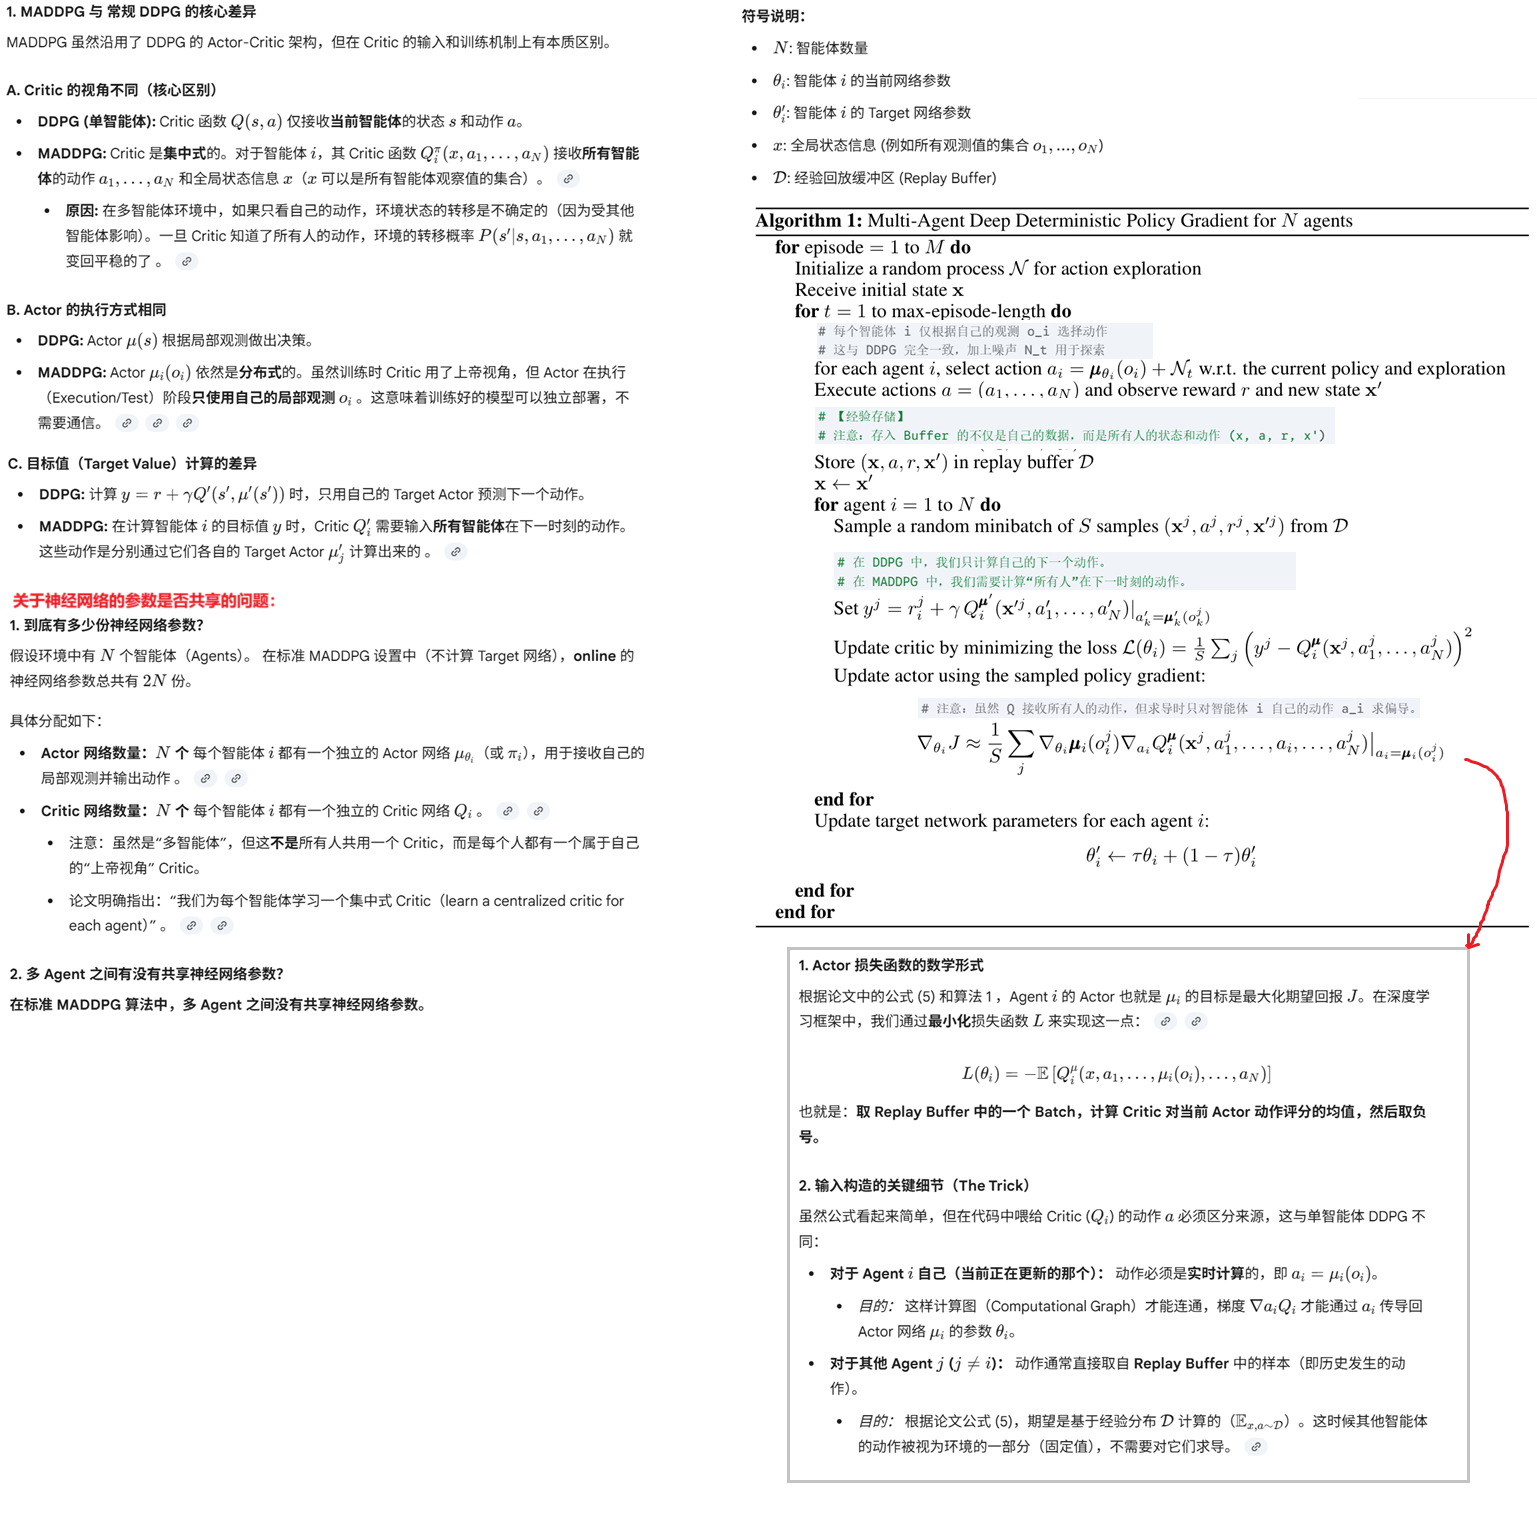
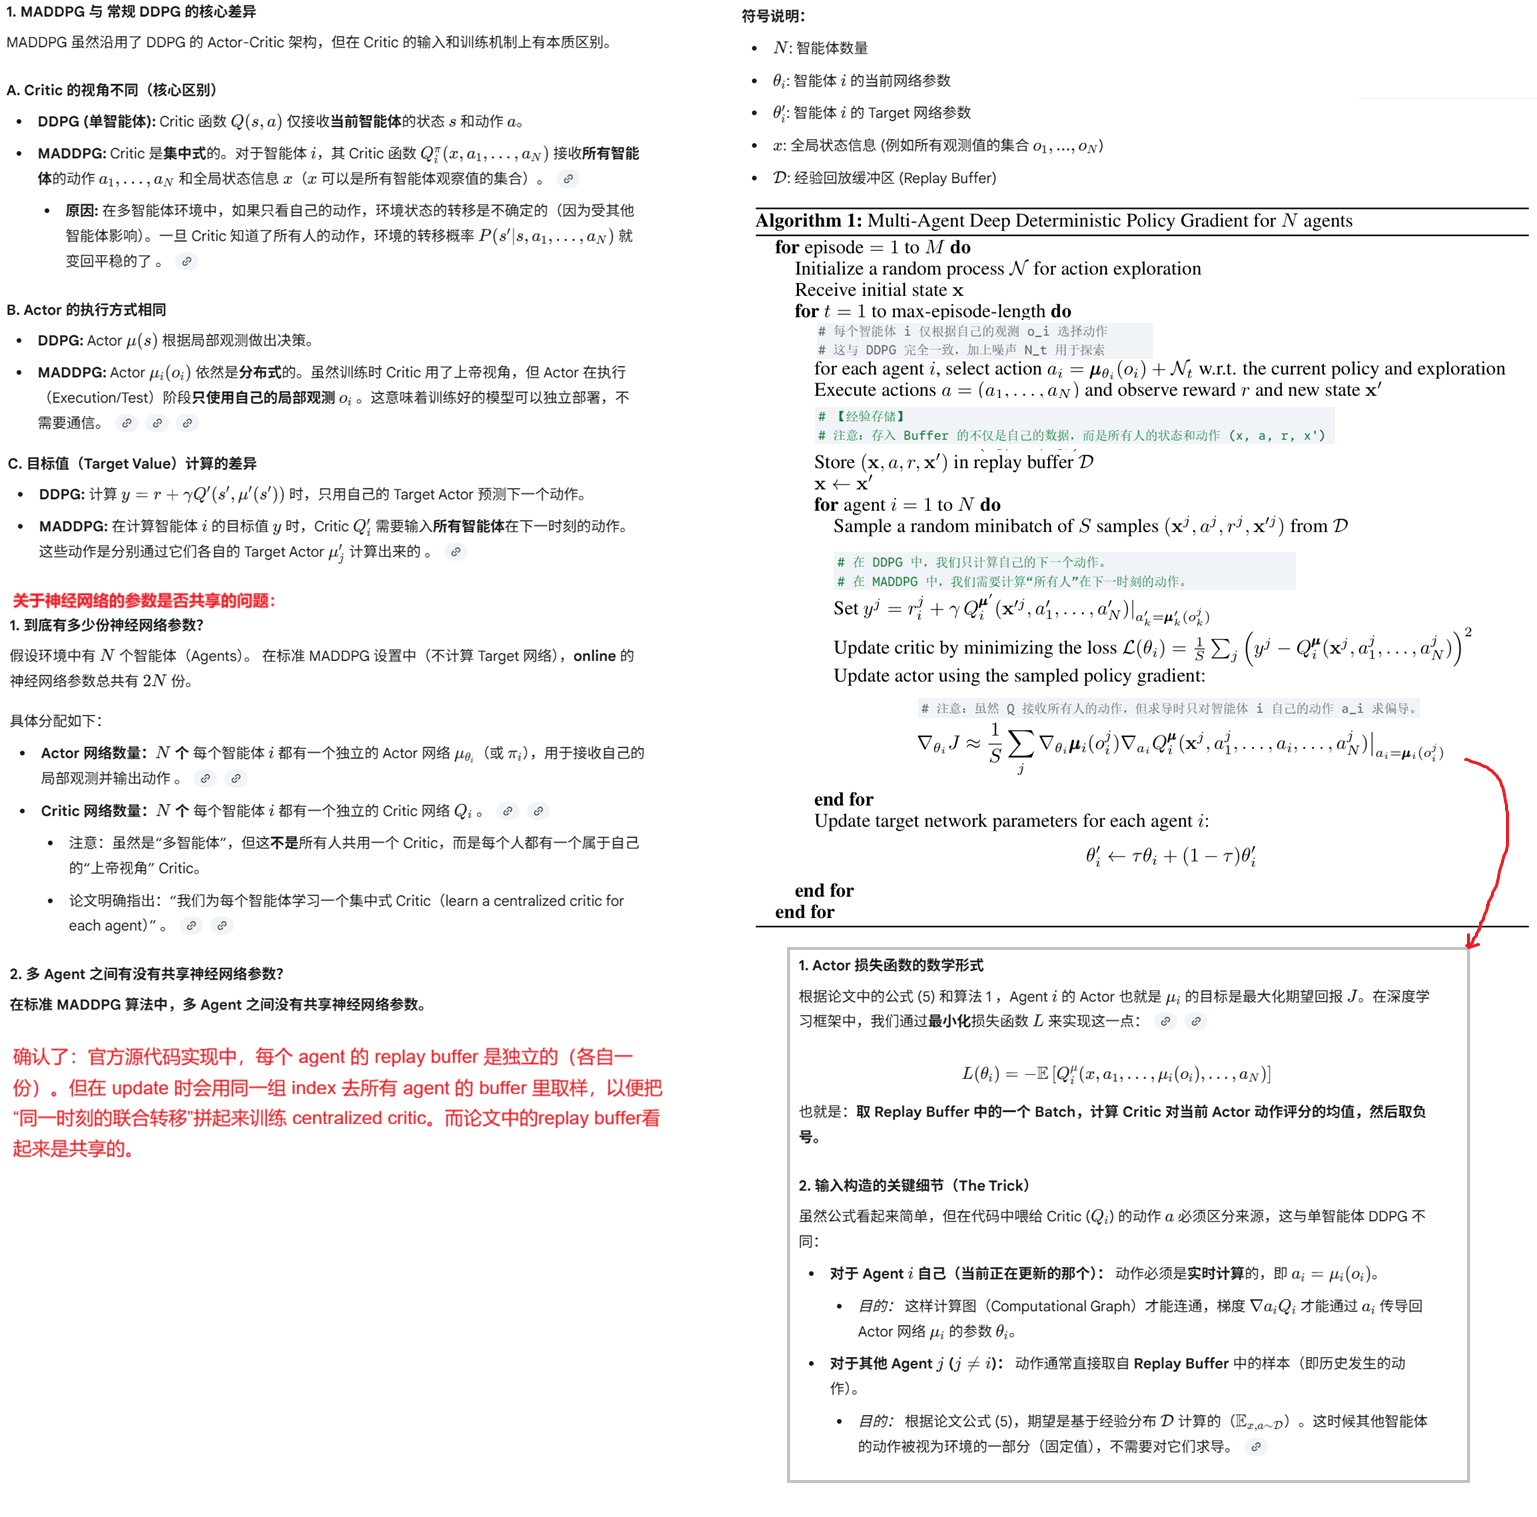
update maddpg

Changed region(s): [[0.0, 0.6816, 0.4372, 0.7746]]

diff --git a/MARL_MADDPG.md b/MARL_MADDPG.md
@@ -65,4 +65,332 @@
 
 ### 7、代码开放
 
-在[这里](https://github.com/openai/multiagent-particle-envs)有MADDPG的代码和论文中提到的几款游戏环境，但没有算法的实现。算法可能要参考DDPG论文，或者作者认为这是一个通识算法，没有必要提供。
+在[这里](https://github.com/openai/multiagent-particle-envs)有MADDPG的代码和论文中提到的几款游戏环境
+
+在[这里](https://github.com/openai/maddpg)有MADDPG的代码实现
+
+
+### 8、MPE 动作空间与 MADDPG 策略网络输出层设计
+
+#### 1. MPE 动作空间（以 simple / simple_spread 为例）
+
+##### 1.1 形式
+
+- **场景**：PettingZoo MPE 的 `simple_spread_v3`（本项目 `--scenario simple` 的默认映射）。
+- **每个 agent 的动作空间**：`Box(0.0, 1.0, (5,), float32)`，即 **5 维连续向量**，每维取值 `[0, 1]`。
+
+##### 1.2 5 维的含义
+
+5 维与 5 个“方向/选项”一一对应：
+
+| 维度索引 | 含义        |
+|----------|-------------|
+| 0        | no_action   |
+| 1        | move_left   |
+| 2        | move_right  |
+| 3        | move_down   |
+| 4        | move_up     |
+
+- **离散模式**（`continuous_actions=False`）：从这 5 个里选 1 个，即 `Discrete(5)`。
+- **连续模式**（`continuous_actions=True`，本项目所用）：每个维度表示该方向的**强度**（0～1），环境会用这 5 个数做加权或合成，得到实际移动（如 2D 速度）；左、右等可部分抵消。
+
+---
+
+#### 2. MADDPG 策略网络输出层的设计
+
+##### 2.1 设计思路：输出“分布参数”而非“动作本身”
+
+策略网络（Actor / `p_net`）**不直接输出动作**，而是输出**动作分布的参数**；再通过“分布 + 采样”得到动作，必要时再压到环境要求的区间（如 `[0, 1]`）。
+
+- **动作空间**：来自环境，如 `act_space_n[i]` 为第 i 个 agent 的 `Box(low, high, shape)` 或 `Discrete(n)`。
+- **分布类型（PdType）**：由 `make_pdtype(ac_space)` 根据动作空间类型决定：
+  - `Box(shape=(d,))` → **对角高斯**，需要 `2*d` 个参数（d 个均值 + d 个标准差的对数）；
+  - `Discrete(n)` → Softmax（n 个 logits）。
+- **输出维度**：`p_param_size = act_pdtype_n[agent_index].param_shape()[0]`。对 `Box(d)` 即为 `2*d`。
+- **前向流程**：`obs → p_net → flat (长度 2d) → pdfromflat(flat) → 分布.sample() → [可选] _squash → 环境动作`。
+
+因此，**输出层维度 = 该 agent 动作分布参数的个数**（对角高斯下 = 2×动作维度）。
+
+##### 2.2 与 Q 网络的区分
+
+- **p_net（Actor）**：输入当前 agent 的观测，输出**动作分布参数**（如 mean + logstd）。
+- **q_net（Critic）**：输入所有 agent 的 (obs, action) 拼接（或 local 时仅当前 agent），输出标量 Q 值。
+
+---
+
+#### 3. 对角高斯分布（Diagonal Gaussian）
+
+##### 3.1 定义与参数形式
+
+- **对角高斯**：多元高斯的一种，**为动作的每个维度各设一组 (均值, 标准差)**，各维**独立**。
+- **协方差矩阵**：为对角阵（非对角元为 0），即各维无协方差、不相关。
+- **参数**：d 维动作 → 共 `2*d` 个参数：`[μ_1..μ_d, log(σ_1)..log(σ_d)]`。
+- **采样**：对每维独立采样  
+  `a_i = μ_i + σ_i * ε_i`，其中 `ε_i ~ N(0,1)` 且各维独立。  
+  使用 **logstd** 而非 std，是为了让网络可以无界输出，再通过 `σ = exp(logstd)` 保证 σ > 0。
+
+##### 3.2 与“一般多元高斯”的对比
+
+| 项目         | 一般多元高斯           | 对角高斯                     |
+|--------------|------------------------|------------------------------|
+| 协方差       | 任意对称正定矩阵 Σ     | 仅对角元，各维独立           |
+| 参数个数     | d + d(d+1)/2           | d + d = 2d                    |
+| 维度间关系   | 可相关                 | 独立                         |
+| 实现与训练   | 需正定参数化，较复杂   | 简单、稳定，常用于连续动作   |
+
+---
+
+#### 4. 维度间的“冲突”与对角假设的理解
+
+##### 4.1 问题
+
+例如“左移”与“右移”在语义上冲突，若各维**独立**采样，理论上可能同时采到左、右都偏大，与直觉不符。
+
+##### 4.2 为何仍用对角（不建模协方差）
+
+1. **均值在起主导作用**  
+   策略学习的是每个维度的 **μ**。学好后可以是“左高右低”或“右高左低”，从**期望动作**上就避免同时大力左移+右移。冲突主要通过**学好的均值**来化解，而不是靠协方差。
+
+2. **环境会对多维动作做合成**  
+   MPE 会把 5 维强度合成为实际移动（如加权得到速度向量）。因此即使偶尔采到“左、右都偏大”，在物理上往往**部分抵消**，不一定会产生荒谬行为。
+
+3. **实现与稳定性上的折中**  
+   对角形式参数少、训练稳定；全协方差需要更多参数和正定约束。探索时各维独立加噪，偶尔出现“左、右都大”可视为探索与稳定性之间的折中。
+
+##### 4.3 若需显式建模互斥
+
+可考虑：
+- **全协方差多元高斯**（更多参数，需 Cholesky 等参数化）；
+- **其他动作表示**：如输出“方向 + 幅值”而不是 5 个独立强度。
+
+当前实现采用常见做法：**对角高斯 + 让策略学好多维均值**，在多数 MPE 任务中已足够。
+
+---
+
+#### 5. 小结（便于记忆）
+
+- **MPE simple 动作空间**：`Box(0, 1, (5,))`，5 维对应 [no_action, 左, 右, 下, 上] 的强度，连续时由环境合成实际移动。
+- **MADDPG 策略输出**：输出的是**动作分布的参数**（对角高斯下为 2×动作维度的 mean + logstd），再经采样与可选的 squash 得到环境动作。
+- **对角高斯**：每维一组 (μ, σ)，各维独立；不建模维度间协方差，左/右等“冲突”主要靠学好的均值与环境的合成来化解。
+
+### 9、Multi-Agent Particle Environment 观测构成与源码对照
+
+本文档整理各场景下智能体**观测（observation）**的构成及对应源代码，便于 MARL（如 MADDPG）实验时理解输入维度。  
+约定：`world.dim_p=2`（平面位置），`world.dim_color=3`（RGB），`dim_c` 为通信维度，由各场景在 `make_world()` 中设置。  
+观测均在**智能体自身参考系**下给出：相对位置为 `entity.state.p_pos - agent.state.p_pos`。
+
+---
+
+#### 1. simple（单智能体调试）
+
+| 项目 | 内容 |
+|------|------|
+| **场景** | 单智能体、1 个地标，无通信、无竞争 |
+| **智能体** | 1 个，无角色区分 |
+| **观测构成** | `[自身速度 p_vel]` + `[各地标相对位置]` → 维度：2 + 2×1 = **4** |
+| **源码位置** | `multiagent/scenarios/simple.py` 第 45–49 行 |
+
+```python
+# 观测 = 自身速度 + 所有地标相对位置
+return np.concatenate([agent.state.p_vel] + entity_pos)
+```
+
+---
+
+#### 2. simple_adversary（Physical deception）
+
+| 项目 | 内容 |
+|------|------|
+| **场景** | 1 个 adversary（红）、2 个 good（绿）、2 个地标（其一为目标），好智能体需分散覆盖以欺骗对手 |
+| **智能体** | **Good**：知目标；**Adversary**：不知目标 |
+| **Good 观测** | `[目标地标相对位置]` + `[各地标相对位置]` + `[其他智能体相对位置]` → 2 + 4 + 4 = **10** |
+| **Adversary 观测** | `[各地标相对位置]` + `[其他智能体相对位置]` → 4 + 4 = **8** |
+| **源码位置** | `multiagent/scenarios/simple_adversary.py` 第 121–186 行 |
+
+```python
+# Good: 含目标相对位置；Adversary: 不含目标
+if not agent.adversary:
+    return np.concatenate([agent.goal_a.state.p_pos - agent.state.p_pos] + entity_pos + other_pos)
+else:
+    return np.concatenate(entity_pos + other_pos)
+```
+
+---
+
+#### 3. simple_spread（Cooperative navigation）
+
+| 项目 | 内容 |
+|------|------|
+| **场景** | 3 智能体、3 地标，协作覆盖地标并避免碰撞，无通信语义（有 dim_c 但未在观测中区分用途） |
+| **智能体** | 无角色区分 |
+| **观测构成** | `[自身速度]` + `[自身位置]` + `[各地标相对位置]` + `[其他智能体相对位置]` + `[其他智能体通信 c]` → 2 + 2 + 6 + 4 + 4 = **18**（dim_c=2） |
+| **源码位置** | `multiagent/scenarios/simple_spread.py` 第 84–99 行 |
+
+```python
+return np.concatenate([agent.state.p_vel] + [agent.state.p_pos] + entity_pos + other_pos + comm)
+```
+
+---
+
+#### 4. simple_push（Keep-away）
+
+| 项目 | 内容 |
+|------|------|
+| **场景** | 1 个 good、1 个 adversary、2 个地标，good 要靠近目标地标，adversary 要推开 good |
+| **智能体** | **Good**：知目标；**Adversary**：不知目标 |
+| **Good 观测** | `[自身速度]` + `[目标地标相对位置]` + `[自身颜色]` + `[各地标相对位置]` + `[各地标颜色]` + `[其他智能体相对位置]` → 2 + 2 + 3 + 4 + 6 + 2 = **19** |
+| **Adversary 观测** | `[自身速度]` + `[各地标相对位置]` + `[其他智能体相对位置]` → 2 + 4 + 2 = **8** |
+| **源码位置** | `multiagent/scenarios/simple_push.py` 第 76–95 行 |
+
+```python
+if not agent.adversary:
+    return np.concatenate([agent.state.p_vel] + [agent.goal_a.state.p_pos - agent.state.p_pos] + [agent.color] + entity_pos + entity_color + other_pos)
+else:
+    return np.concatenate([agent.state.p_vel] + entity_pos + other_pos)
+```
+
+---
+
+#### 5. simple_speaker_listener（Cooperative communication）
+
+| 项目 | 内容 |
+|------|------|
+| **场景** | 1 个 speaker（不移动）、1 个 listener，3 个地标；speaker 观察 listener 的目标地标并“说”给 listener |
+| **智能体** | **Speaker**：仅目标颜色；**Listener**：地标相对位置 + 通信 |
+| **Speaker 观测** | `[目标地标颜色 goal_color]` → **3** |
+| **Listener 观测** | `[自身速度]` + `[各地标相对位置]` + `[其他智能体通信]` → 2 + 6 + 3 = **11**（dim_c=3） |
+| **源码位置** | `multiagent/scenarios/simple_speaker_listener.py` 第 69–91 行 |
+
+```python
+if not agent.movable:   # speaker
+    return np.concatenate([goal_color])
+if agent.silent:        # listener
+    return np.concatenate([agent.state.p_vel] + entity_pos + comm)
+```
+
+---
+
+#### 6. simple_reference（双向协作指路）
+
+| 项目 | 内容 |
+|------|------|
+| **场景** | 2 智能体、3 地标，各自有目标地标且仅对方知道，需通过通信告知对方目标 |
+| **智能体** | 无角色区分，均为“说者+听者” |
+| **观测构成** | `[自身速度]` + `[各地标相对位置]` + `[自身目标地标颜色]` + `[其他智能体通信]` → 2 + 6 + 3 + 10 = **21**（dim_c=10） |
+| **源码位置** | `multiagent/scenarios/simple_reference.py` 第 61–79 行 |
+
+```python
+return np.concatenate([agent.state.p_vel] + entity_pos + [goal_color[1]] + comm)
+```
+
+---
+
+#### 7. simple_crypto（Covert communication）
+
+| 项目 | 内容 |
+|------|------|
+| **场景** | Alice（说者）、Bob（听者）、Eve（对手）；Alice 用私钥加密目标传给 Bob，Eve 只能看到密文 |
+| **智能体** | **Speaker (Alice)**：目标颜色 + 私钥；**Listener (Bob)**：私钥 + 通信；**Adversary (Eve)**：仅通信 |
+| **Speaker 观测** | `[目标地标颜色 goal_color]` + `[私钥 key]` → 4 + 4 = **8**（dim_c=4） |
+| **Listener (Bob) 观测** | `[私钥 key]` + `[说者通信]` → 4 + 4 = **8** |
+| **Adversary (Eve) 观测** | `[说者通信]` → **4** |
+| **源码位置** | `multiagent/scenarios/simple_crypto.py` 第 124–169 行 |
+
+```python
+if agent.speaker:
+    return np.concatenate([goal_color] + [key])
+if not agent.speaker and not agent.adversary:  # Bob
+    return np.concatenate([key] + comm)
+if not agent.speaker and agent.adversary:      # Eve
+    return np.concatenate(comm)
+```
+
+---
+
+#### 8. simple_tag（Predator-prey）
+
+| 项目 | 内容 |
+|------|------|
+| **场景** | 1 个 good（猎物）、3 个 adversary（捕食者）、2 个障碍地标 |
+| **智能体** | 无通信；所有智能体观测结构相同 |
+| **观测构成** | `[自身速度]` + `[自身位置]` + `[非边界地标相对位置]` + `[其他智能体相对位置]` + `[其他 good 智能体速度]` → 2 + 2 + 4 + 6 + 2 = **16**（1 good + 3 adv，other_vel 仅 good 的 1 个） |
+| **源码位置** | `multiagent/scenarios/simple_tag.py` 第 131–146 行 |
+
+```python
+return np.concatenate([agent.state.p_vel] + [agent.state.p_pos] + entity_pos + other_pos + other_vel)
+```
+
+---
+
+#### 9. simple_world_comm（带食物/森林/领导的 Tag）
+
+| 项目 | 内容 |
+|------|------|
+| **场景** | 2 good、4 adversary（其中 agent0 为 leader，可通信）、1 地标、2 食物、2 森林；森林内不可见；good 吃食物得分 |
+| **智能体** | **Leader (adv)**：全信息 + 通信；**普通 Adversary**：实体/其他智能体 + 森林内可见性 + 领导通信；**Good**：无通信，结构略简 |
+| **Adversary（含 Leader）观测** | `[自身速度]` + `[自身位置]` + `[所有实体相对位置]` + `[其他智能体相对位置]`（森林遮挡时为零）+ `[其他 good 速度]` + `[自身是否在森林 in_forest×2]` + `[leader 通信]`；实体含 1 地标+2 食物+2 森林 → 维度随实体与遮挡变化 |
+| **Good 观测** | 同上但不含 comm（或仅环境信息），结构为 `p_vel + p_pos + entity_pos + other_pos + in_forest + other_vel` |
+| **源码位置** | `multiagent/scenarios/simple_world_comm.py` 第 224–286 行 |
+
+```python
+# 森林内仅当同森林或均为森林外时可见其他智能体；leader 的 c 作为 comm
+if agent.adversary and not agent.leader:
+    return np.concatenate([agent.state.p_vel] + [agent.state.p_pos] + entity_pos + other_pos + other_vel + in_forest + comm)
+if agent.leader:
+    return np.concatenate([agent.state.p_vel] + [agent.state.p_pos] + entity_pos + other_pos + other_vel + in_forest + comm)
+else:  # good
+    return np.concatenate([agent.state.p_vel] + [agent.state.p_pos] + entity_pos + other_pos + in_forest + other_vel)
+```
+
+---
+
+#### 观测获取流程（环境侧）
+
+观测在环境 `step()` / `reset()` 中统一通过场景的 `observation()` 回调得到：
+
+| 步骤 | 说明 | 源码位置 |
+|------|------|----------|
+| 1 | 环境将 `observation_callback` 设为场景的 `observation` | `make_env.py` 第 42 行 |
+| 2 | 每步/重置时对每个 agent 调用 `_get_obs(agent)` | `multiagent/environment.py` 第 92、114 行 |
+| 3 | `_get_obs` 内部调用 `observation_callback(agent, self.world)` | `multiagent/environment.py` 第 125–128 行 |
+| 4 | 观测空间维度在构造时由 `len(observation_callback(agent, self.world))` 确定 | `multiagent/environment.py` 第 67–68 行 |
+
+---
+
+#### 符号与维度速查
+
+| 符号 | 含义 | 典型维度 |
+|------|------|----------|
+| `p_vel` | 自身速度 | 2（dim_p） |
+| `p_pos` | 自身位置（全局） | 2 |
+| `entity_pos` | 地标/实体相对位置列表 | n_entity × 2 |
+| `entity_color` | 地标颜色列表 | n_entity × 3 |
+| `other_pos` | 其他智能体相对位置列表 | (n_agent−1) × 2 |
+| `other_vel` | 部分其他智能体速度（如 good 的 vel） | 视场景 |
+| `comm` | 其他智能体的 `state.c`（通信） | (n_agent−1 或 1) × dim_c |
+| `goal_color` / `goal_a` | 目标地标颜色或相对位置 | 3 或 2 |
+| `in_forest` | 是否在某个森林内 | 2（两个标量） |
+
+以上表格可直接拷贝到读书笔记中使用；实现细节以仓库内源码为准。
+
+---
+
+#### 速查总表（拷贝用）
+
+| 场景 | 智能体类型 | 观测构成 | 典型维度 | 源码（observation 函数） |
+|------|------------|----------|----------|---------------------------|
+| **simple** | 通用 | 自身速度 + 地标相对位置 | 4 | `simple.py:45-49` |
+| **simple_adversary** | Good | 目标相对位置 + 地标相对位置 + 其他智能体相对位置 | 10 | `simple_adversary.py:121-186` |
+| **simple_adversary** | Adversary | 地标相对位置 + 其他智能体相对位置 | 8 | 同上 |
+| **simple_spread** | 通用 | 自身速度 + 自身位置 + 地标相对位置 + 其他智能体相对位置 + 其他智能体通信 | 18 | `simple_spread.py:84-99` |
+| **simple_push** | Good | 自身速度 + 目标相对位置 + 自身颜色 + 地标相对位置 + 地标颜色 + 其他智能体相对位置 | 19 | `simple_push.py:76-95` |
+| **simple_push** | Adversary | 自身速度 + 地标相对位置 + 其他智能体相对位置 | 8 | 同上 |
+| **simple_speaker_listener** | Speaker | 目标地标颜色 | 3 | `simple_speaker_listener.py:69-91` |
+| **simple_speaker_listener** | Listener | 自身速度 + 地标相对位置 + 说者通信 | 11 | 同上 |
+| **simple_reference** | 通用 | 自身速度 + 地标相对位置 + 自身目标颜色 + 其他智能体通信 | 21 | `simple_reference.py:61-79` |
+| **simple_crypto** | Speaker (Alice) | 目标颜色 + 私钥 | 8 | `simple_crypto.py:124-169` |
+| **simple_crypto** | Listener (Bob) | 私钥 + 说者通信 | 8 | 同上 |
+| **simple_crypto** | Adversary (Eve) | 说者通信 | 4 | 同上 |
+| **simple_tag** | 通用 | 自身速度 + 自身位置 + 地标相对位置 + 其他智能体相对位置 + 其他 good 速度 | 16 | `simple_tag.py:131-146` |
+| **simple_world_comm** | Leader/Adversary | 自身速度 + 自身位置 + 实体相对位置 + 其他智能体相对位置（含森林遮挡）+ 其他 good 速度 + 是否在森林×2 + 领导通信 | 变长 | `simple_world_comm.py:224-286` |
+| **simple_world_comm** | Good | 同上但无领导通信 | 变长 | 同上 |
